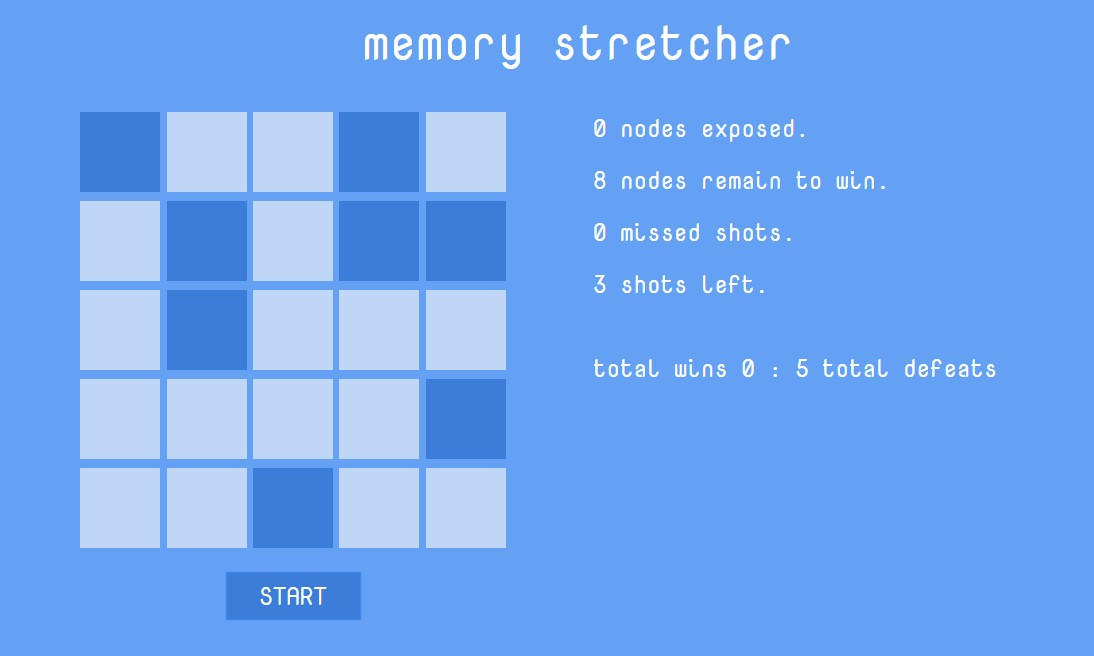
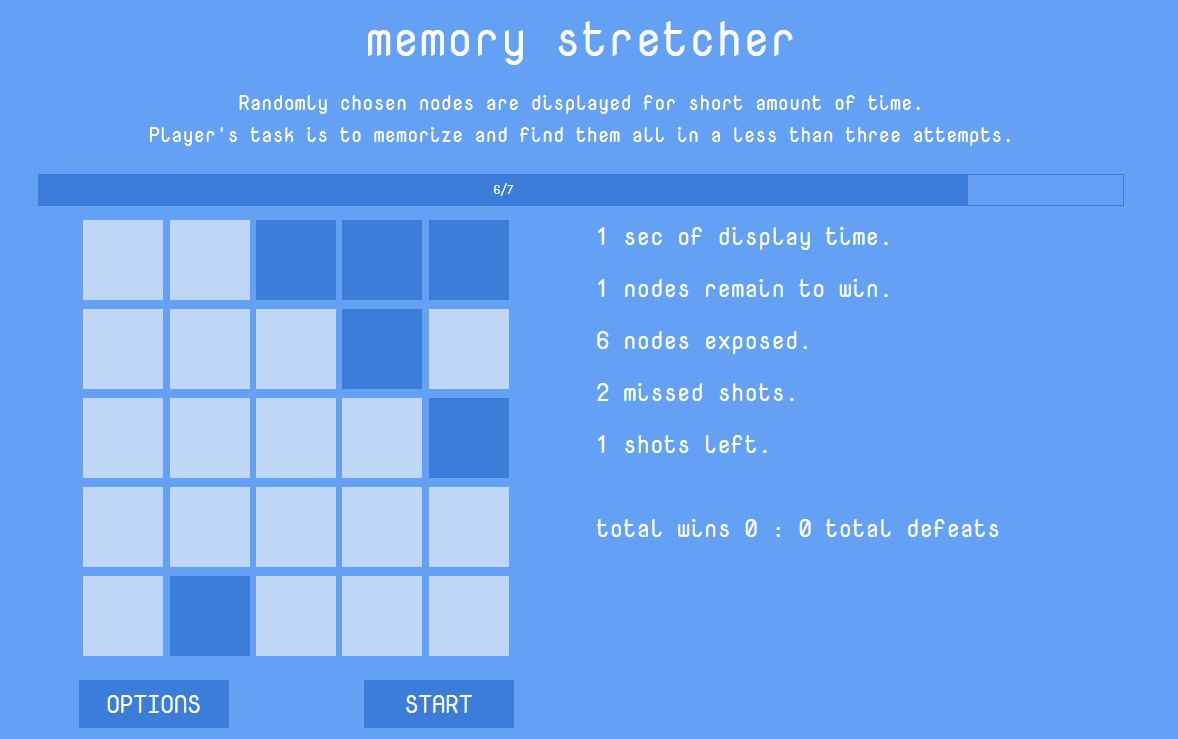
updated readme

Changed region(s): [[0.0311, 0.0305, 0.8391, 1.0], [0.4973, 0.5183, 0.9324, 0.6098], [0.4973, 0.7012, 0.8702, 0.7317]]

diff --git a/README.md b/README.md
@@ -43,6 +43,8 @@ $ npm start
 In this project player sees
 * Simple stats of current game
 * Scores of wins and defeats from all games
+* Modal with options
+* Progressbar showing scores
 
 To-do list:
 * Tests
